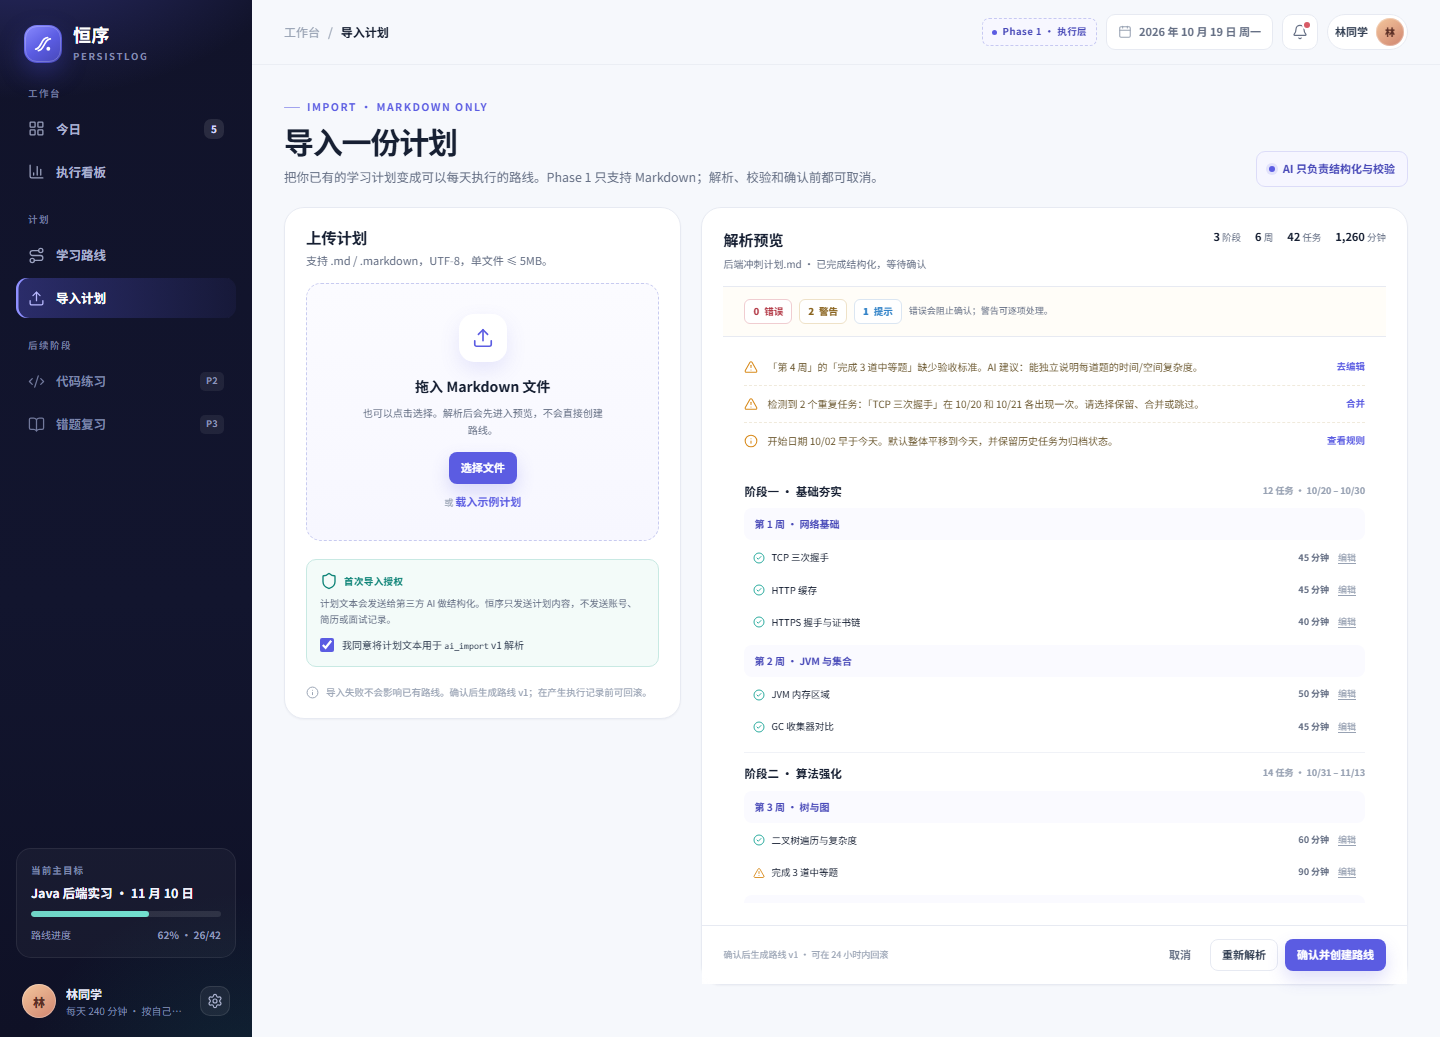
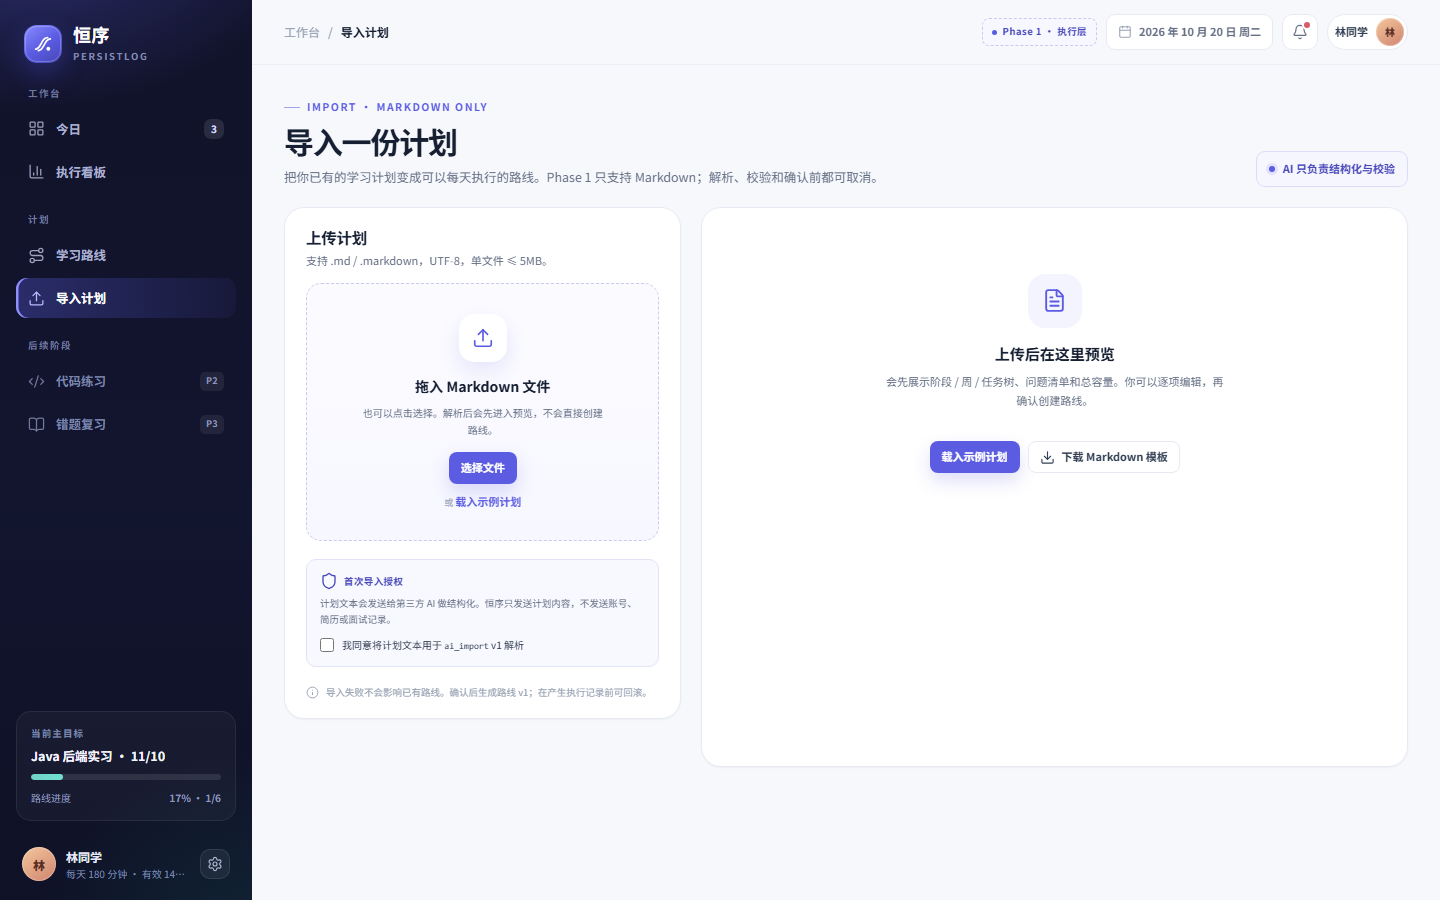
docs(frontend): document backend integration and refresh screenshots

diff --git a/README.md b/README.md
@@ -1,9 +1,9 @@
 # 恒序 persistLog · Frontend
 
-**当前状态**：Phase 1 前端技术框架 + 设计初稿页面落地  
+**当前状态**：Phase 1 页面已完成，并完成前后端联调（登录、今日、导入、路线、看板、档案、通知读取）  
 **技术栈**：Next.js 16（App Router）+ React 19 + TypeScript + 原生 CSS  
-**数据状态**：页面使用 `lib/mock-data.ts` 演示数据；API 客户端与端点映射已就绪，尚未联调后端  
-**日期**：2026-10-19  
+**数据状态**：默认通过 Next.js rewrite `/api/v1/*` 调用本地 FastAPI；未登录时保留 mock 设计数据用于原型预览  
+**日期**：2026-10-20  
 **远程仓库**：<https://github.com/QingTong1-ops/PersistLog.git>  
 **分支**：`frontend-master`
 
@@ -14,19 +14,27 @@
 
 ## 1. 快速开始
 
-要求：Node.js ≥ 22，pnpm ≥ 12。
+要求：Node.js ≥ 22，pnpm ≥ 12；本地后端 FastAPI 已启动。
 
-```bash
-cd persistLogFrontend
+```powershell
+# 终端 1：后端（仓库根目录）
+cd D:\code\persistLog\persistLog
+.\.venv\Scripts\python.exe -m uvicorn app.main:app --reload --port 8000
+
+# 终端 2：前端
+cd D:\code\persistLog\persistLogFrontend
 pnpm install
-cp .env.example .env.local   # Windows 可用 Copy-Item .env.example .env.local
+Copy-Item .env.example .env.local
 pnpm dev
 ```
 
-打开 <http://localhost:3000>。
+打开 <http://localhost:3000>。前端通过 `next.config.ts` 的 rewrite 把 `/api/v1/*` 转到 `BACKEND_API_URL`，浏览器只看到同源地址，Refresh Cookie 不跨 host。
+
+本地联调种子账号（仅开发库）：`lin.frontend@example.com` / `persistlog123`。
 
 > 开发环境请使用 `http://localhost:3000`，不要用 `127.0.0.1`，否则 Next.js 的开发资源可能被跨域策略拦截。
 > 如确实需要 127.0.0.1，`next.config.ts` 已把 `127.0.0.1` 加入 `allowedDevOrigins`。
+> 若改前端端口（例如 3001），后端 `CORS_ORIGINS` 必须加入完整 Origin；否则 `/auth/refresh` 会返回 `CSRF_ORIGIN_REJECTED`。
 
 ### 常用脚本
 
@@ -44,17 +52,19 @@ pnpm dev
 
 | 路由 | 页面 | 状态 |
 | --- | --- | --- |
-| `/login` | 登录 / 注册 | 已落地，交互为前端模拟 |
-| `/onboarding` | 4 步首次引导 | 已落地 |
-| `/today` | 今日任务、容量、顺延、路线预测 | 已落地，状态联动 |
-| `/import` | Markdown 上传 / 解析 / 预览 / 确认 | 已落地，Job 为模拟流程 |
-| `/routes` | 路线列表 | 已落地 |
-| `/routes/[id]` | 路线详情、阶段/周/任务、版本、设置 | 已落地 |
-| `/dashboard` | 执行看板 7/30 天 | 已落地 |
-| `/settings/profile` | 档案与容量 | 已落地 |
-| `/settings/notifications` | 企业微信推送 | 已落地 |
-| `/settings/ai` | AI 授权 | 已落地 |
-| `/settings/data` | 数据与账号 | 已落地 |
+| `/login` | 登录 / 注册 | 真实后端，Access Token 内存 + Refresh HttpOnly Cookie |
+| `/onboarding` | 4 步首次引导 | 档案、目标、AI 授权真实保存；步骤 3 文件仍为占位 |
+| `/today` | 今日任务、容量、顺延、路线预测 | 真实 `GET /today` + occurrence 动作，乐观刷新 |
+| `/import` | Markdown 上传 / 解析 / 预览 / 确认 | 真实 multipart + Job 轮询 + 确认/回滚；预览内联编辑暂为本地 |
+| `/routes` | 路线列表 | 真实 `GET /routes`，新建/暂停/恢复 |
+| `/routes/[id]` | 路线详情、阶段/周/任务、版本、设置 | 真实详情 + 暂停/归档/调整日期/容量 |
+| `/dashboard` | 执行看板 7/30 天 | 真实 overview/trends/distribution/forecast |
+| `/settings/profile` | 档案与容量 | 真实 `PUT /profile` + 主目标更新 |
+| `/settings/notifications` | 企业微信推送 | 渠道/偏好/Outbox 真实读取；创建/测试/删除已接 |
+| `/settings/ai` | AI 授权 | 真实 `PUT /consents`（通过 store） |
+| `/settings/data` | 数据与账号 | 退出登录、会话刷新真实 |
+
+> `?state=...` 设计演示只在未登录的 mock 模式生效；登录后不会被演示状态覆盖真实数据。
 
 状态演示：
 
@@ -100,10 +110,12 @@ persistLogFrontend/
 │  └─ auth/                      # 登录、引导
 ├─ lib/
 │  ├─ types.ts                   # Task/Route/Dashboard/Preview 类型
-│  ├─ mock-data.ts               # 统一演示数据
-│  ├─ store/app-store.tsx        # 任务状态、路线状态、授权状态
-│  ├─ api/client.ts              # fetch 封装、统一错误包
-│  ├─ api/endpoints.ts           # 与 openapi.json 对齐的端点映射
+│  ├─ mock-data.ts               # 未登录时保留的设计演示数据
+│  ├─ auth/auth-provider.tsx     # 登录、注册、刷新、登出、会话初始化
+│  ├─ store/app-store.tsx        # today/routes/profile 真实数据 + 今日动作
+│  ├─ api/client.ts              # fetch、Bearer、401 单飞刷新、错误包
+│  ├─ api/live.ts                # auth/today/imports/routes/dashboard/notifications
+│  ├─ api/mappers.ts             # API → Task/Route/Dashboard 映射
 │  └─ utils.ts                   # 状态标签、任务统计、路线进度
 ├─ docs/
 │  ├─ architecture.md            # 技术架构与接入说明
@@ -119,28 +131,33 @@ persistLogFrontend/
 ### 4.1 渲染模型
 
 - 页面本身是 Server Component，负责读取 `searchParams` / `params` 和元数据。
-- 视图组件是 Client Component（`"use client"`），负责交互和本地演示状态。
-- `(app)/layout.tsx` 提供统一 AppShell；`(auth)` 使用独立全屏布局。
-- 状态演示通过 `?state=` 进入，页面用 `key` 或初始化参数隔离，避免 effect 级联渲染。
+- 视图组件是 Client Component（`"use client"`），负责交互和服务端状态。
+- `(app)/layout.tsx` 提供 `SessionGate` + `AppShell`；未登录跳 `/login`。
+- `(auth)` 使用独立全屏布局；登录成功后进入 `/today`，注册后进入 `/onboarding`。
+- 设计演示 `?state=` 只在 mock 模式生效，不会 mutate 真实后端数据。
 
 ### 4.2 状态层
 
 `lib/store/app-store.tsx` 提供：
 
-- 今日任务列表与所有 occurrence 状态动作：开始、完成、延期、跳过、阻塞、解除、恢复、放弃、拆分。
-- 路线状态：执行中 / 暂停 / 草稿 / 归档。
-- AI 授权状态。
-- 派生指标：完成率、容量、路线进度、累计活跃。
+- 登录后加载 `GET /today`、`GET /routes`、`GET /profile`、`GET /job-targets`，映射为页面使用的 `Task` / `RouteRecord` / `DemoUser`。
+- 今日动作：开始、完成、延期、跳过、阻塞、解除、放弃、拆分；每个动作调用 occurrence API，成功后重新拉取 today + routes。
+- 路线状态：暂停 / 恢复 / 归档 / 调整日期与容量。
+- 通知连接状态、AI 授权状态。
+- 派生指标：完成率、容量、路线进度。
 
-当前 Store 是前端内存状态；刷新恢复演示数据。接入后端时，保留 action 签名，把 `setTasks` 替换为 API 调用 + 重新拉取。
+未登录或未连后端时保留 `lib/mock-data.ts` 的演示数据，用于设计验收；登录后以真实数据为准。
 
 ### 4.3 API 层
 
-- `lib/api/client.ts`：`apiFetch<T>`、`ApiError`、`X-Request-ID`、credentials include。
-- `lib/api/endpoints.ts`：auth / today / imports / routes / dashboard / settings 端点，与 `docs/openapi.json` 对齐。
+- `lib/api/client.ts`：`apiFetch<T>`、`ApiError`、`X-Request-ID`、`credentials: include`、401 单飞刷新、失败重试一次。
+- `lib/api/live.ts`：auth / today / imports / routes / dashboard / notifications 的真实端点与类型。
+- `lib/api/mappers.ts`：TodayItem → Task、RouteDetail → 路线/阶段、Dashboard → 图表数据集。
+- `lib/auth/auth-provider.tsx`：登录、注册、`/auth/me` 初始化、刷新、登出；SessionGate 负责路由守卫。
 - 认证契约：Access Token 内存，Refresh Token HttpOnly Cookie；前端不写 localStorage。
-- 导入接入：`POST /imports` + `GET /jobs/{id}` 轮询；当前界面用 3 秒模拟流程。
-- 指标口径：看板数字必须与今日页、路线详情同一口径。
+- 部署：Next rewrite 把 `/api/v1/*` 转到 `BACKEND_API_URL`，浏览器同源，避免 Cookie `SameSite` 问题。
+- 导入接入：`POST /imports` + `GET /jobs/{id}` 轮询 + `GET/PATCH /imports/{id}/preview` + 确认/回滚。
+- 指标口径：看板数字与今日页、路线详情共用同一后端口径。
 
 ### 4.4 样式
 
@@ -169,7 +186,8 @@ persistLogFrontend/
 | `5649a7b` | 路线列表、路线详情、阶段/周/任务、版本、调整 |
 | `7103605` | 执行看板、7/30 天趋势、分布、预测 |
 | `ab210aa` | 档案、企微推送、AI 授权、数据与账号 |
-| `docs`（本次） | API 客户端、环境变量、架构文档、README、截图 |
+| `docs`（上一轮） | API 客户端、环境变量、架构文档、README、截图 |
+| **本次联调** | Next rewrite、AuthProvider/SessionGate、真实 today/import/routes/dashboard/settings、API mappers、联调文档与截图 |
 
 原型与设计文档的历史仍保留在前面的 `ed45972` 提交。
 
@@ -177,18 +195,23 @@ persistLogFrontend/
 
 ## 6. 验证
 
-最近一次验证：
+最近一次验证（本地后端 8000 + 前端 3000）：
 
 ```bash
 pnpm lint        # 通过
-pnpm build       # 通过，TypeScript 通过
+pnpm typecheck   # 通过
+pnpm build       # 通过
 ```
 
-浏览器覆盖：
+真实链路覆盖：
 
-- 1440px 桌面端：登录、引导、今日、导入、路线、路线详情、看板、设置。
-- 390px 移动端：今日、导入、看板、设置、登录。
-- 交互：完成任务后 40% → 60%、路线 62% → 64%；任务详情抽屉；完成弹窗；添加任务；导入解析 → 预览 → 编辑 → 确认；路线暂停/恢复；看板 7/30 天切换。
+- 登录后 `/today` 返回 3 项 / 140 分钟 / 有效容量 144；刷新页面仍保持登录。
+- 完成「TCP 三次握手」后：今日 0% → 33%（1/3），路线 0% → 17%（1/6），后端 `/today` 与 `/dashboard/overview` 同步。
+- 导入真实 Markdown：上传 → Job 轮询 → 预览（2 阶段 / 2 周 / 3 任务 / 180 分钟）→ 确认创建路线。
+- 看板 7/30 天、分布、预测、路线进度均来自真实接口。
+- 路线详情 2 个阶段、6 个任务；完成后阶段进度 1/4，任务状态与今日同步。
+- 设置档案显示 180 分钟 / 80% / 有效 144；未配置企微时显示「未配置」，测试按钮禁用。
+- 桌面 1440px 与移动端 390px 布局通过。
 
 截图：
 
@@ -196,9 +219,9 @@ pnpm build       # 通过，TypeScript 通过
 | --- | --- |
 | ![今日](docs/screenshots/today.png) | ![执行看板](docs/screenshots/dashboard.png) |
 
-| 导入预览 | 设置 |
+| 导入上传 | 设置 |
 | --- | --- |
-| ![导入预览](docs/screenshots/import.png) | ![设置](docs/screenshots/settings.png) |
+| ![导入上传](docs/screenshots/import.png) | ![设置](docs/screenshots/settings.png) |
 
 更多：[登录](docs/screenshots/login.png)、[移动端今日](docs/screenshots/today-mobile.png)。
 
@@ -206,24 +229,25 @@ pnpm build       # 通过，TypeScript 通过
 
 ## 7. 已知限制
 
-1. 页面仍使用 mock 数据，未调用真实 API。
-2. 登录/注册、引导提交为前端模拟；没有真实会话。
-3. 导入解析为定时模拟，不是真实 Markdown 解析 / AI Job。
-4. 企微测试发送、Outbox 重试、审计日志为界面演示。
-5. 路线详情任务表展示 19/42 项关键任务，其余结构折叠。
-6. 新路线只存在页面内存，刷新后恢复；未持久化。
-7. 后端接口的字段细节以 `docs/openapi.json` 为准，接入时需补契约测试。
+1. 导入预览的「编辑任务」目前只改本地展示；确认仍使用后端原始 preview 结构，完整 `PATCH /imports/{id}/preview` 待接。
+2. 今日页「添加任务」在 live 模式只加入当前页面，后端暂无“补入已有每日计划”的接口。
+3. 引导步骤 3 的文件选择仍是占位，导入在 `/import` 完成。
+4. 路线详情阶段完成数只能从今日 occurrence 推断；历史阶段完成度需要后端在 RouteDetail 返回按阶段统计。
+5. 企微测试发送需要有效 Webhook；`send_time` 已存储但定时调度仍按后端默认时间。
+6. 没有自动化 E2E；当前为 lint/typecheck/build + 浏览器手工验收。
+7. 时间戳仍按 UTC 解析（后端当前不带 `Z`）。
+8. Phase 2/3 页面（practice / quiz / mistakes / capability）未开始。
 
 ---
 
 ## 8. 下一步
 
-1. 用 `lib/api/endpoints.ts` 替换 mock store，补 TanStack Query（或 SWR）缓存与错误重试。
-2. 接真实登录、Refresh Cookie、CSRF/CORS 与路由守卫。
-3. 导入接真实 `POST /imports` + `GET /jobs/{id}` 轮询。
-4. 今日/看板/路线数据对账，补 E2E。
-5. 设置页接通知渠道/偏好/Outbox 与授权记录。
-6. 补 Playwright 组件/E2E 测试和 CI。
+1. 补导入预览 `PATCH` 与今日计划补任务的专用接口。
+2. 增加 TanStack Query 缓存与请求去重，减少 today/routes/dashboard 的重复拉取。
+3. 用后端 RouteDetail 补阶段/周完成度，避免前端推断。
+4. 补 Playwright：登录 → 导入 → 今日完成 → 看板 → 设置；CI 跑 lint/typecheck/build/E2E。
+5. 接真实企微 Webhook 验证测试发送、失败重试、Outbox。
+6. 进入 Phase 2 前完成 7 天真实使用与 20 条任务数据。
 
 ---
 

diff --git a/docs/architecture.md b/docs/architecture.md
@@ -1,6 +1,6 @@
 # 恒序 persistLog · 前端技术架构
 
-- **版本**：v0.1（Phase 1 技术框架）
+- **版本**：v0.2（Phase 1 页面 + 前后端联调）
 - **日期**：2026-10-19
 - **对应代码**：`persistLogFrontend/`
 - **设计依据**：[`design/visual-design.md`](../design/visual-design.md)、[`design/page-spec.md`](../design/page-spec.md)
@@ -58,13 +58,14 @@ app/layout.tsx（RootLayout）
 | `app/` | 路由、布局、metadata、参数解析 | 复杂业务状态 |
 | `components/*-view.tsx` | 页面级组合、交互编排 | 跨页面数据持久化 |
 | `components/today/` | 任务行、详情抽屉、任务弹窗 | 路线/看板渲染 |
-| `components/import/` | 上传/解析/预览/确认状态机 | 真实文件解析 |
+| `components/import/` | 上传/解析/预览/确认状态机 | 真实文件解析（后端） |
 | `components/routes/` | 路线列表、详情、阶段/周/任务、版本 | 今日计划生成 |
 | `components/dashboard/` | KPI、趋势、分布、预测 | 能力评分 |
 | `components/settings/` | 档案、通知、AI 授权、数据 | 认证后端 |
-| `lib/store/` | 跨页面任务/路线/授权状态 | 服务端持久化 |
-| `lib/api/` | fetch 封装、端点映射 | UI 逻辑 |
-| `lib/mock-data.ts` | 统一演示数据 | 生产数据 |
+| `lib/auth/` | 会话初始化、登录、刷新、登出 | 业务数据 |
+| `lib/store/` | 跨页面 today/routes/profile/授权状态 | 服务端持久化 |
+| `lib/api/` | fetch、Bearer、401 刷新、端点、映射 | UI 逻辑 |
+| `lib/mock-data.ts` | 未登录时的设计演示数据 | 生产数据 |
 | `app/globals.css` | 设计 token、组件、响应式 | 组件内联样式 |
 
 ---
@@ -135,36 +136,42 @@ resetDemo()
 
 ### 5.2 端点映射
 
-`lib/api/endpoints.ts` 按 openapi 分组：
+`lib/api/live.ts` 按 openapi 分组：
 
 ```text
-auth.login / register / me / refresh / logout
+auth.login / register / me / logout
+profile.get / update / jobs / createJob / updateJob / consents / setConsent
 today.get / generate / action
-imports.create / get / preview / confirm / cancel / rollback / job
-routes.list / get / create / update / action / adjust / forecast / versions
+imports.create / get / preview / updatePreview / confirm / cancel / rollback / job
+routes.list / get / create / action / adjust / forecast / versions / createTask
 dashboard.overview / trends / distribution / forecast
-settings.profile / settings / jobTargets / consents / channels / preferences / outbox / auditLogs
+notifications.channels / createChannel / updateChannel / deleteChannel /
+  preferences / updatePreferences / outbox / test / resend
 ```
 
-### 5.3 从 mock 切到真实 API
+`lib/api/mappers.ts` 负责把后端对象映射成页面类型，避免组件直接依赖 snake_case 字段。
 
-1. 保留 `AppStore` 的 action 签名，把 `setTasks` 更新替换成：
-   - 乐观更新本地 state；
-   - 调用 `api.today.action(...)`；
-   - 失败回滚并 `showToast`。
-2. 页面首次加载时用 Server Component 或 `useEffect` 拉取 `api.today.get()`、`api.routes.list()`、`api.dashboard.overview()`。
-3. 导入用 `api.imports.create` + `api.imports.job` 轮询，轮询间隔 1–2 秒，完成后进入预览。
-4. 认证接 HttpOnly Refresh Cookie；Access Token 只放内存；401 时调 `api.auth.refresh()`，失败跳 `/login`。
-5. 所有接口错误展示 `code + message + request_id`；不要只显示“请求失败”。
+### 5.3 当前接入状态
+
+已接真实链路：
+
+1. 登录/注册/刷新/登出、SessionGate、401 单飞刷新。
+2. 今日 `GET /today` 与全部 occurrence 动作；完成后重新拉取 today + routes。
+3. 导入 multipart 上传、Job 轮询、预览、确认、回滚。
+4. 路线列表/详情、暂停/恢复/归档、调整日期/容量。
+5. 看板 overview / trends / distribution / forecast。
+6. 档案与主目标保存、通知渠道/偏好/Outbox 读取与测试发送。
+
+仍为前端或占位的部分见 README §7。
 
 ### 5.4 认证
 
-- 登录/注册当前是前端模拟。
-- 正式接入时：
-  - `POST /auth/login` 返回 access token（内存）。
-  - Refresh token 由 HttpOnly Cookie 承载，前端不读、不写 localStorage。
-  - 路由守卫在 `(app)/layout.tsx` 或 middleware 中检查会话。
-  - CSRF/Origin 校验由后端负责；前端 `credentials: "include"`。
+- `POST /auth/login` 返回 access token，只放内存。
+- Refresh token 由 HttpOnly Cookie 承载，前端不读、不写 localStorage。
+- `SessionGate` 在 `(app)/layout.tsx` 检查会话；未登录跳 `/login`。
+- 401 时 `client.ts` 单飞刷新并重试一次；失败清空 token 并跳登录。
+- CSRF/Origin 校验由后端负责；前端 `credentials: "include"`。
+- Next rewrite 让浏览器只看到 `localhost:3000`，避免 localhost / 127.0.0.1 的 Cookie 不同源问题。
 
 ---
 
@@ -230,19 +237,19 @@ pnpm build
 
 ## 10. 已知技术债
 
-1. Store 与页面 props 仍有少量重复派生计算，接入 API 后统一到 selector。
-2. 演示数据与组件文案有重复（如目标日期、预测日期），应抽成常量/接口字段。
-3. 路线详情阶段任务为静态展示，未与任务 CRUD 打通。
-4. 新路线只存在本地 state，未持久化。
-5. 导入模拟定时器未使用真实 Job 轮询。
-6. 设置页表单保存只 Toast，未调用 API。
-7. 未加路由级 loading/error 以外的数据层错误边界。
+1. Store 与页面 props 仍有少量重复派生计算，后续统一到 selector。
+2. 导入预览编辑只改本地，确认仍用后端原始 preview。
+3. 今日页手动添加任务未持久化；后端暂无补入已有每日计划的接口。
+4. 路线阶段完成度目前只能用今日 occurrence 推断。
+5. 通知测试发送依赖有效企微 Webhook；`send_time` 动态调度未开放。
+6. 没有自动化 E2E；当前是 lint/typecheck/build + 手工验收。
+7. 时间戳按 UTC 解析，后端暂未补 `Z`。
 
 ---
 
 ## 11. 扩展点
 
-- `lib/api/endpoints.ts`：新增 Phase 2/3 端点。
+- `lib/api/live.ts`：新增 Phase 2/3 端点。
 - `components/today/task-modals.tsx`：新增任务动作时保持同一表单模式。
 - `components/dashboard/dashboard-view.tsx`：Phase 2 代码评分趋势区块。
 - `components/settings/settings-view.tsx`：Phase 3 复习参数面板。
